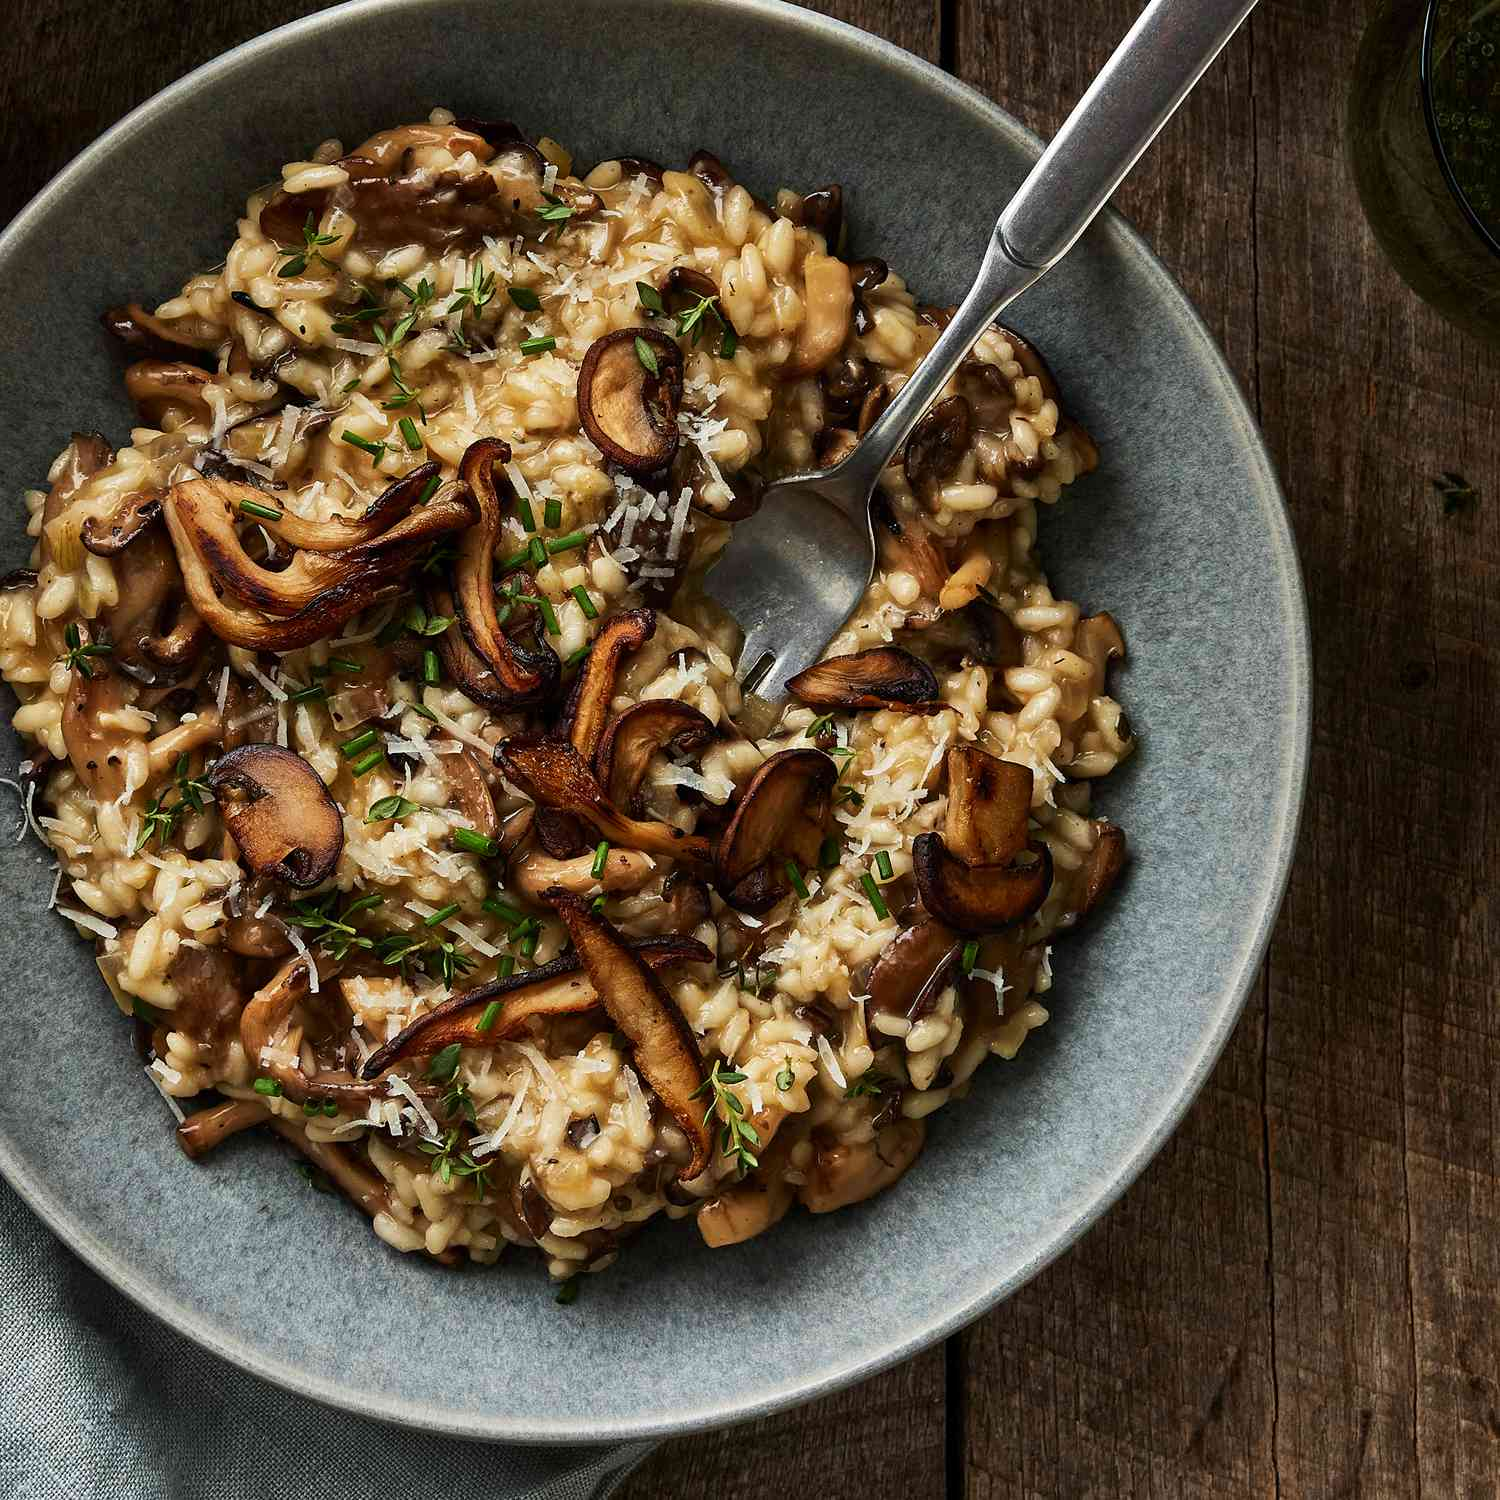
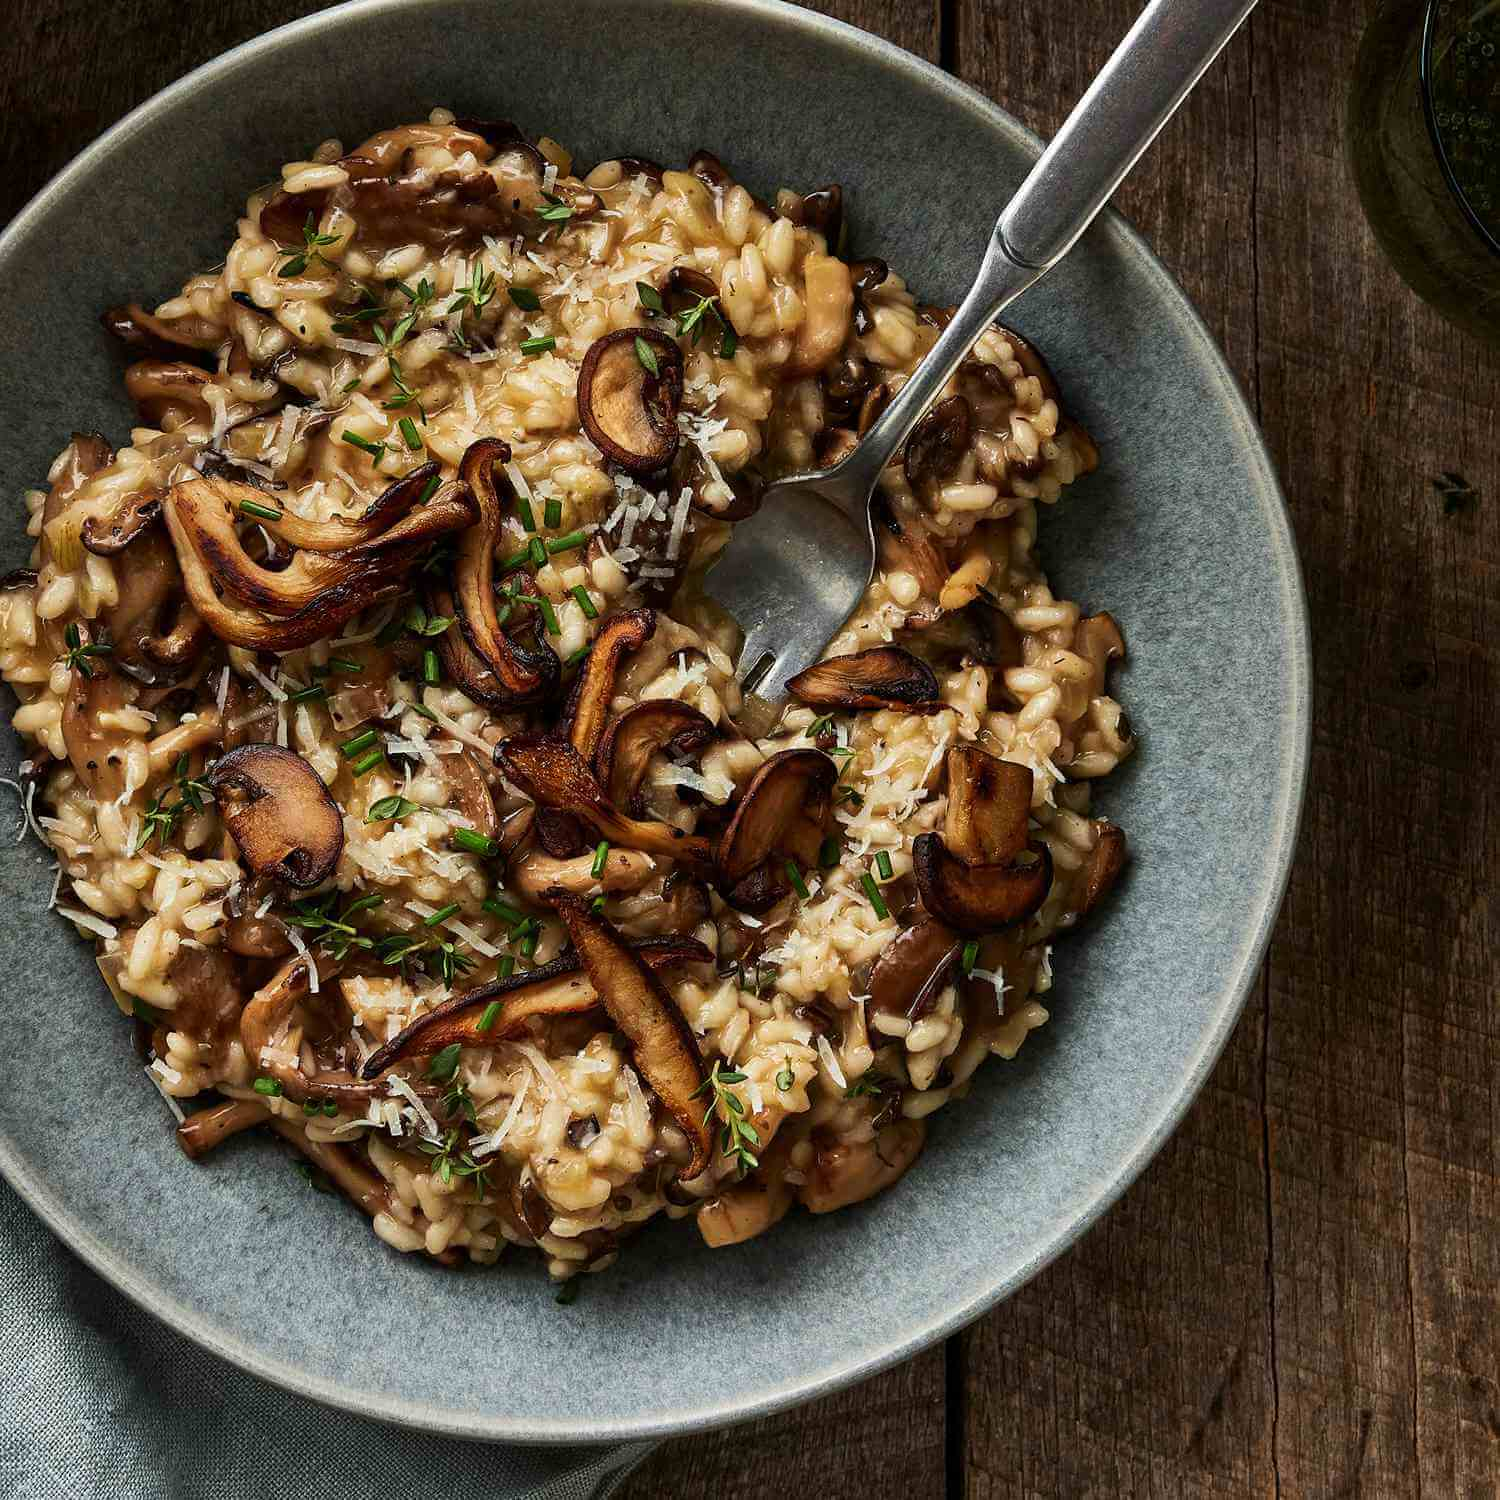
fixing loading issus by decreaseing pic size

Changed region(s): [[0.0, 0.8587, 0.092, 1.0], [0.5827, 0.2147, 0.644, 0.276], [0.3987, 0.3373, 0.4293, 0.368]]

diff --git a/src/component/component/Header/Header.jsx b/src/component/component/Header/Header.jsx
@@ -1,0 +1,45 @@
+
+import './Header.css'
+import { IoSearchOutline } from "react-icons/io5";
+import { FaRegCircleUser } from "react-icons/fa6";
+
+const Header = () => {
+    return (
+        <header className='max-w-[1320px] mx-auto mb-28 lg:px-0 px-4'>
+            <nav className='lg:flex justify-between items-center py-12 lg:space-y-0 space-y-4'>
+                <h1 className='text-[rgb(21,11,43)] text-3xl lg:text-left text-center font-bold cursor-pointer'>Recipe Cooking</h1>
+                <ul className='lg:flex hidden text-lg text-[rgba(21,11,43,0.7)] font-medium gap-x-12'>
+                    <li className='cursor-pointer hover:bg-[rgb(11,229,138)] hover:text-black px-3 py-2 rounded-lg transition-[500ms]'>Home</li>
+                    <li className='cursor-pointer hover:bg-[rgb(11,229,138)] hover:text-black px-3 py-2 rounded-lg transition-[500ms]'>Recipes</li>
+                    <li className='cursor-pointer hover:bg-[rgb(11,229,138)] hover:text-black px-3 py-2 rounded-lg transition-[500ms]'>About</li>
+                    <li className='cursor-pointer hover:bg-[rgb(11,229,138)] hover:text-black px-3 py-2 rounded-lg transition-[500ms]'>Search</li>
+                </ul>
+                <div className='flex lg:justify-end justify-center items-center gap-x-4 lg:rounded-none rounded-2xl'>
+                    <div className='flex bg-[rgba(21,11,43,0.05)] gap-x-3 py-3 px-6 rounded-[50px]'>
+                        <span className='text-3xl'><IoSearchOutline></IoSearchOutline></span>
+                        <input type="text" placeholder='Search' className='bg-transparent outline-none' />
+                    </div>
+                    <div className='text-4xl p-2 bg-[rgb(11,229,138)] rounded-full cursor-pointer' title='User'>
+                        <FaRegCircleUser></FaRegCircleUser>
+                    </div>
+                </div>
+            </nav>
+            <section>
+                <div className='bg lg:rounded-none rounded-2xl space-y-6'>
+                    <h1 className='lg:text-5xl text-2xl font-bold text-white'>Delicious Recipes: <br /> Explore Culinary Delights for Every Palate</h1>
+                    <p className='text-white lg:text-lg font-normal'>Welcome to Flavor Haven: Where Culinary Magic Happens!Indulge in a Symphony of Tastes with Our Exquisite Recipes.
+                        From Sizzling Stir-Fries to Decadent Desserts, We Have It All.Embark on a Journey of Culinary Excellence 
+                        - <span className='text-[rgb(11,229,138)]'>Let Your Taste Buds Rejoice!</span></p>
+                    <div className='lg:text-xl text-lg font-semibold flex gap-x-8 mt-4 lg:pb-0 pb-4 lg:mt-10'>
+                        <button className='text-[rgb(21,11,43)] hover:bg-[rgba(11,229,138,0.79)] transition-[500ms] bg-[rgb(11,229,138)] py-2 px-4 lg:py-5 lg:px-8 rounded-[50px]'>Explore Now</button>
+                        <button className='text-white hover:bg-[rgba(11,229,138,0.9)] hover:text-black transition-[500ms] lg:py-5 py-2 px-4 lg:px-8 bg-transparent border border-white rounded-[50px]'><a href="#feedback">Our Feedback</a></button>
+                    </div>
+                </div>
+            </section>
+        </header>
+    );
+};
+
+
+
+export default Header;

diff --git a/src/component/Footer/Footer.jsx b/src/component/Footer/Footer.jsx
@@ -1,0 +1,46 @@
+
+
+const Footer = () => {
+    return (
+        <footer className="p-10 bg-base-200 text-base-content mt-32">
+            <div className="max-w-[1320px] mx-auto lg:px-0 px-5">
+            <footer className="footer p-10 bg-base-200 text-base-content">
+                <nav>
+                    <h6 className="footer-title">Services</h6> 
+                    <a className="link link-hover">Branding</a>
+                    <a className="link link-hover">Design</a>
+                    <a className="link link-hover">Marketing</a>
+                    <a className="link link-hover">Advertisement</a>
+                </nav> 
+                <nav>
+                    <h6 className="footer-title">Company</h6> 
+                    <a className="link link-hover">About us</a>
+                    <a className="link link-hover">Contact</a>
+                    <a className="link link-hover">Jobs</a>
+                    <a className="link link-hover">Press kit</a>
+                </nav> 
+                <nav>
+                    <h6 className="footer-title">Legal</h6> 
+                    <a className="link link-hover">Terms of use</a>
+                    <a className="link link-hover">Privacy policy</a>
+                    <a className="link link-hover">Cookie policy</a>
+                </nav> 
+                <form className="lg:block hidden">
+                    <h6 className="footer-title">Newsletter</h6> 
+                    <fieldset className="form-control w-80">
+                    <label className="label">
+                        <span className="label-text">Enter your email address For Update</span>
+                    </label> 
+                    <div className="join">
+                        <input type="text" placeholder="username@site.com" className="input input-bordered join-item" /> 
+                        <button className="btn bg-[rgb(11,229,138)] join-item">Subscribe</button>
+                    </div>
+                    </fieldset>
+                </form>
+                </footer>
+            </div>
+        </footer>
+    );
+};
+
+export default Footer;

diff --git a/src/component/component/Footer/Footer.jsx b/src/component/component/Footer/Footer.jsx
@@ -1,0 +1,46 @@
+
+
+const Footer = () => {
+    return (
+        <footer className="p-10 bg-base-200 text-base-content mt-32">
+            <div className="max-w-[1320px] mx-auto lg:px-0 px-5">
+            <footer className="footer p-10 bg-base-200 text-base-content">
+                <nav>
+                    <h6 className="footer-title">Services</h6> 
+                    <a className="link link-hover">Branding</a>
+                    <a className="link link-hover">Design</a>
+                    <a className="link link-hover">Marketing</a>
+                    <a className="link link-hover">Advertisement</a>
+                </nav> 
+                <nav>
+                    <h6 className="footer-title">Company</h6> 
+                    <a className="link link-hover">About us</a>
+                    <a className="link link-hover">Contact</a>
+                    <a className="link link-hover">Jobs</a>
+                    <a className="link link-hover">Press kit</a>
+                </nav> 
+                <nav>
+                    <h6 className="footer-title">Legal</h6> 
+                    <a className="link link-hover">Terms of use</a>
+                    <a className="link link-hover">Privacy policy</a>
+                    <a className="link link-hover">Cookie policy</a>
+                </nav> 
+                <form className="lg:block hidden">
+                    <h6 className="footer-title">Newsletter</h6> 
+                    <fieldset className="form-control w-80">
+                    <label className="label">
+                        <span className="label-text">Enter your email address For Update</span>
+                    </label> 
+                    <div className="join">
+                        <input type="text" placeholder="username@site.com" className="input input-bordered join-item" /> 
+                        <button className="btn bg-[rgb(11,229,138)] join-item">Subscribe</button>
+                    </div>
+                    </fieldset>
+                </form>
+                </footer>
+            </div>
+        </footer>
+    );
+};
+
+export default Footer;

diff --git a/src/component/component/Recipe/Recipe.jsx b/src/component/component/Recipe/Recipe.jsx
@@ -1,0 +1,38 @@
+import { IoTimeOutline } from "react-icons/io5";
+import { RiFireLine } from "react-icons/ri";
+import PropTypes from 'prop-types';
+
+const Recipe = ({recipe,handelWantToCook}) => {
+    const {recipe_image,recipe_name,short_description,ingredients,preparing_time,calories,id} = recipe
+    return (
+        <div className="p-6 rounded-2xl border border-[rgba(40,40,40,0.2)] flex flex-col justify-between">
+            <div>
+                <img className='w-full object-cover rounded-xl h-[200px]' src={recipe_image} alt="" />
+            </div>
+            <div className="mt-6">
+            <h1 className="text-xl text-[rgb(40,40,40)] font-semibold">{recipe_name}</h1>
+            <p className="text-base text-[rgb(135,135,135)] font-medium mt-4 mb-3">{short_description}</p>
+            <hr />
+            </div>
+            <h3 className="text-lg text-[rgb(40,40,40)] font-semibold mt-6">Ingredients: {ingredients.length}</h3>
+            <ul className='list-disc pl-4 text-lg font-normal text-[rgb(135,135,135)] mt-4 mb-4'>
+                {
+                    ingredients.map( item => <li key={id} >{item}</li> )
+                }
+            </ul>
+            <hr />
+            <div className="flex items-center text-xl font-normal text-[rgba(40,40,40,0.8)] gap-x-8 mt-4">
+                <p className="flex gap-x-3 items-center"><span><IoTimeOutline></IoTimeOutline></span>{preparing_time} min</p>
+                <p className="flex gap-x-3 items-center"><span><RiFireLine></RiFireLine></span>{calories} calories</p>
+            </div>
+            <button onClick={ () => handelWantToCook(recipe)} className="bg-[rgb(11,229,138)] hover:bg-[rgb(49,182,127)] hover:text-white transition-[500ms] px-6 py-3 rounded-[50px] text-[rgb(21,11,43)] text-lg font-medium mt-4">Want to Cook</button>
+        </div>
+    );
+};
+
+Recipe.propTypes = {
+    recipe:PropTypes.object.isRequired,
+    handelWantToCook:PropTypes.func.isRequired,
+};
+
+export default Recipe;

diff --git a/src/component/Review/Review.jsx b/src/component/Review/Review.jsx
@@ -1,0 +1,31 @@
+
+import PropTypes from 'prop-types';
+
+
+const Review = ({review}) => {
+    const {customer_img,customer_name,reviews} = review;
+    return (
+        <div className='p-6 border rounded-2xl text-center border-[rgba(40,40,40,0.2)] space-y-4'>
+            <div className='flex justify-center'>
+                <img className='w-28 h-28 rounded-full object-cover' src={customer_img} alt="" />
+            </div>
+            <div>
+                <h1 className="text-xl text-[rgb(40,40,40)] font-semibold mb-3">{customer_name}</h1>
+                    <div className="rating mb-3">
+                        <input type="radio" name="rating-1" className="mask mask-star" />
+                        <input type="radio" name="rating-1" className="mask mask-star" checked />
+                        <input type="radio" name="rating-1" className="mask mask-star" />
+                        <input type="radio" name="rating-1" className="mask mask-star" />
+                        <input type="radio" name="rating-1" className="mask mask-star" />
+                    </div>
+                <p className='text-lg font-normal text-[rgb(135,135,135)]'>{reviews}</p>
+            </div>
+        </div>
+    );
+};
+
+Review.propTypes = {
+    review:PropTypes.object.isRequired
+};
+export default Review;
+

diff --git a/src/component/component/Review/Review.jsx b/src/component/component/Review/Review.jsx
@@ -1,0 +1,31 @@
+
+import PropTypes from 'prop-types';
+
+
+const Review = ({review}) => {
+    const {customer_img,customer_name,reviews} = review;
+    return (
+        <div className='p-6 border rounded-2xl text-center border-[rgba(40,40,40,0.2)] space-y-4'>
+            <div className='flex justify-center'>
+                <img className='w-28 h-28 rounded-full object-cover' src={customer_img} alt="" />
+            </div>
+            <div>
+                <h1 className="text-xl text-[rgb(40,40,40)] font-semibold mb-3">{customer_name}</h1>
+                    <div className="rating mb-3">
+                        <input type="radio" name="rating-1" className="mask mask-star" />
+                        <input type="radio" name="rating-1" className="mask mask-star" checked />
+                        <input type="radio" name="rating-1" className="mask mask-star" />
+                        <input type="radio" name="rating-1" className="mask mask-star" />
+                        <input type="radio" name="rating-1" className="mask mask-star" />
+                    </div>
+                <p className='text-lg font-normal text-[rgb(135,135,135)]'>{reviews}</p>
+            </div>
+        </div>
+    );
+};
+
+Review.propTypes = {
+    review:PropTypes.object.isRequired
+};
+export default Review;
+

diff --git a/src/component/Reviews/Reviews.jsx b/src/component/Reviews/Reviews.jsx
@@ -1,0 +1,30 @@
+import { useEffect, useState } from "react";
+import Review from "../Review/Review";
+
+
+const Reviews = () => {
+
+    const [reviews,setReviews] = useState([]);
+
+    useEffect( () => {
+        fetch('reviews.json')
+        .then( res => res.json() )
+        .then( data => setReviews(data))
+    },[])
+
+    return (
+        <div>
+            <div className="text-center my-28 space-y-4">
+            <h1 className='text-4xl text-[rgb(21,11,43)] font-semibold'>Our Feedback</h1>
+            <p className='text-lg text-[rgba(21,11,43,0.6)] font-medium'>From farm to table, we pride ourselves on serving dishes that not only tantalize your taste buds but also reflect our commitment to quality and sustainability. Indulge in a culinary journey where every bite tells a story.</p>
+            </div>
+            <div className="grid lg:grid-cols-4 grid-cols-1 gap-5">
+            {
+                reviews.map( review => <Review key={review.id} review={review} ></Review> )
+            }
+        </div>
+        </div>
+    );
+};
+
+export default Reviews;

diff --git a/src/component/component/Reviews/Reviews.jsx b/src/component/component/Reviews/Reviews.jsx
@@ -1,0 +1,30 @@
+import { useEffect, useState } from "react";
+import Review from "../Review/Review";
+
+
+const Reviews = () => {
+
+    const [reviews,setReviews] = useState([]);
+
+    useEffect( () => {
+        fetch('reviews.json')
+        .then( res => res.json() )
+        .then( data => setReviews(data))
+    },[])
+
+    return (
+        <div>
+            <div className="text-center my-28 space-y-4">
+            <h1 className='text-4xl text-[rgb(21,11,43)] font-semibold'>Our Feedback</h1>
+            <p className='text-lg text-[rgba(21,11,43,0.6)] font-medium'>From farm to table, we pride ourselves on serving dishes that not only tantalize your taste buds but also reflect our commitment to quality and sustainability. Indulge in a culinary journey where every bite tells a story.</p>
+            </div>
+            <div className="grid lg:grid-cols-4 grid-cols-1 gap-5">
+            {
+                reviews.map( review => <Review key={review.id} review={review} ></Review> )
+            }
+        </div>
+        </div>
+    );
+};
+
+export default Reviews;

diff --git a/src/component/component/Header/Header.css b/src/component/component/Header/Header.css
@@ -1,0 +1,13 @@
+.bg{
+    background-image: url('../../assets/background_img.png');
+    width: 100%;
+    height: 600px;
+    background-repeat: no-repeat;
+    background-position: center;
+    border-radius: 0;
+    display: flex;
+    flex-direction: column;
+    justify-content: center;
+    align-items: center;
+    text-align: center;
+}

diff --git a/src/App.jsx b/src/App.jsx
@@ -1,7 +1,9 @@
 
 import './App.css'
+import Footer from './component/Footer/Footer'
 import Header from './component/Header/Header'
 import Main from './component/Main/Main'
+
 
 function App() {
 
@@ -9,6 +11,7 @@ function App() {
     <>
       <Header></Header>
       <Main></Main>
+      <Footer></Footer>
     </>
   )
 }
